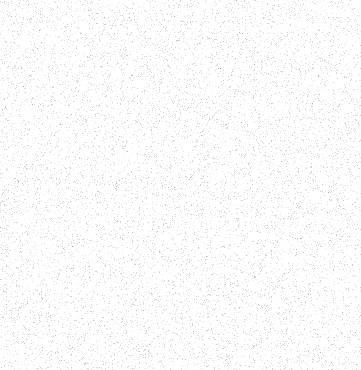
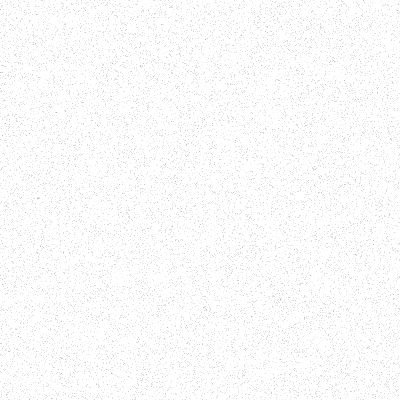
Final working Version 2.  Readme is Up to date. Removed project notes. Minor tweaks to javascript to reduce DOM calls. Minor Cosmetic updates. Shading now fully functional, per readme. Added instructions button with alert pop-up.

diff --git a/css/master.css b/css/master.css
@@ -158,7 +158,7 @@ html, body {
    font-weight: bold;
  }
  .noise {
-   background-image: url(/images/noise3.png);
+   background-image: url(/images/noise1.png);
  }
 .red-gradient {
   background: linear-gradient(rgb(250, 30, 0),
